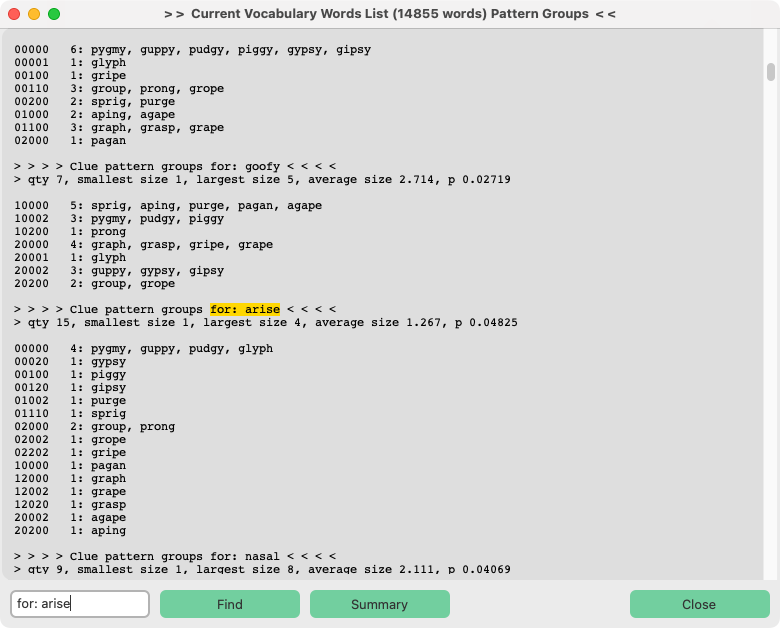
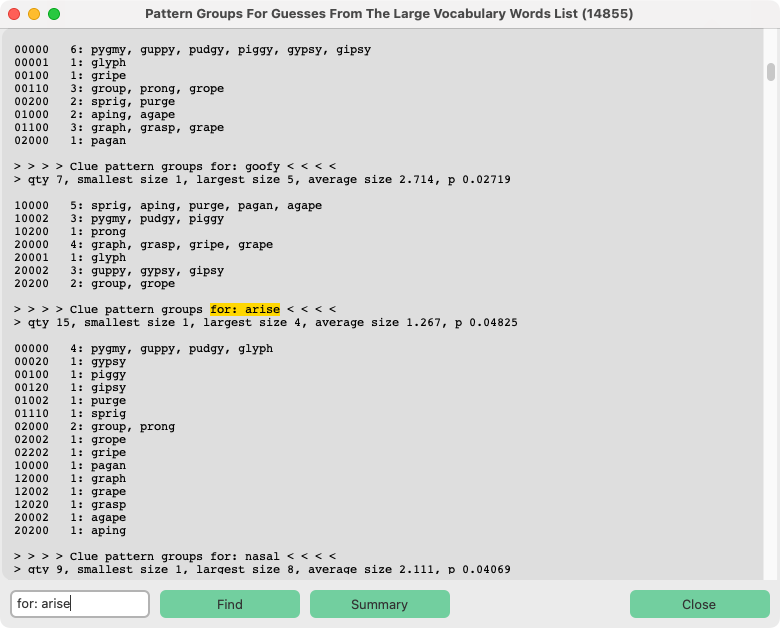
Verbose report window context title

Changed region(s): [[0.1846, 0.0, 0.8308, 0.0303]]

diff --git a/helpers.py b/helpers.py
@@ -434,7 +434,7 @@ def groups_stat_summary(best_rank_dict: dict) -> tuple:
     return grps_qty, min_grp_size, max_grp_size, optimal_rank, max_grp_prob
 
 
-def extended_best_groups_guess_dict(word_lst: list, reporting: bool, all_targets: dict) -> dict:
+def extended_best_groups_guess_dict(word_lst: list, reporting: bool, all_targets: dict, msg1: str) -> dict:
     """
     Wraps guess word group ranking to return the best
     group rank guesses. Guesses resulting in more groups
@@ -442,6 +442,7 @@ def extended_best_groups_guess_dict(word_lst: list, reporting: bool, all_targets
     @param reporting: flag for verbose printing to rptwnd
     @param word_lst: possible guess words
     @param all_targets: vocabulary dictionary
+    @param msg1: text to pass to verbose window
     @return: dictionary of the best group ranked guesses
     """
     guess_rank_dict = {}
@@ -451,7 +452,7 @@ def extended_best_groups_guess_dict(word_lst: list, reporting: bool, all_targets
     rptwnd.withdraw()
     if reporting:
         rptwnd.deiconify()
-        reporting_header_to_window("Vocabulary", all_targets, rptwnd)
+        reporting_header_to_window(msg1, all_targets, rptwnd)
 
     for guess in all_targets.keys():
         # pdepth and ptype are work in progress.
@@ -555,10 +556,10 @@ def report_footer_summary_header_to_window(msg: str, source_list: any, rptwnd: c
 
 
 def reporting_header_to_window(msg: str, source_list: any, rptwnd: ctk) -> NoReturn:
-    rptl = "> >  Current " + msg + " Words List (" + \
-           '{0:.0f}'.format(len(source_list)) + \
-           " words) Pattern Groups  < <\n"
+    rptl = "Pattern Groups For Guesses From The " + msg + " Words List (" + \
+           '{0:.0f}'.format(len(source_list)) + ")"
     rptwnd.title(rptl)
+    rptl = "> >  " + rptl + "  < <\n"
     rptwnd.msg1.insert(tk.END, rptl)
 
 

diff --git a/pywt.py b/pywt.py
@@ -278,16 +278,20 @@ class Pywordlemainwindow(ctk.CTk):
                         # get the entire possible solutions list
                         all_targets = helpers.ToolResults(data_path, 'wo_nyt_wordlist.txt', letter_rank_file, True, 0) \
                             .get_ranked_results_wrd_lst(True)
+                        msg1 = 'Small Vocabulary'
                         optimal_group_guesses = helpers.extended_best_groups_guess_dict(word_list,
                                                                                         self.verbose_grps.get(),
-                                                                                        all_targets)
+                                                                                        all_targets,
+                                                                                        msg1)
                     case 2:
                         # get the entire possible guess list
                         all_targets = helpers.ToolResults(data_path, 'nyt_wordlist.txt', letter_rank_file, True, 0) \
                             .get_ranked_results_wrd_lst(True)
+                        msg1 = 'Large Vocabulary'
                         optimal_group_guesses = helpers.extended_best_groups_guess_dict(word_list,
                                                                                         self.verbose_grps.get(),
-                                                                                        all_targets)
+                                                                                        all_targets,
+                                                                                        msg1)
                     case _:
                         pass
 

diff --git a/groupdrilling.py b/groupdrilling.py
@@ -19,7 +19,8 @@ def process_grp_list(g_word_lst: list) -> dict:
                                       0).get_ranked_results_wrd_lst(True)
     optimal_group_guesses = helpers.extended_best_groups_guess_dict(g_word_lst,
                                                                     True,
-                                                                    all_targets)
+                                                                    all_targets,
+                                                                    'Large Vocabulary')
     return optimal_group_guesses
 
 
@@ -48,7 +49,7 @@ class GrpsDrillingMain(ctk.CTk):
 
     def __init__(self):
         super().__init__()
-        self.title("Groups Drilling")
+        self.title("Groups Drilling Using The Large Vocabulary")
         w_width = 1120
         w_height = 100
         pos_x = int(self.winfo_screenwidth() / 2 - w_width / 2)
